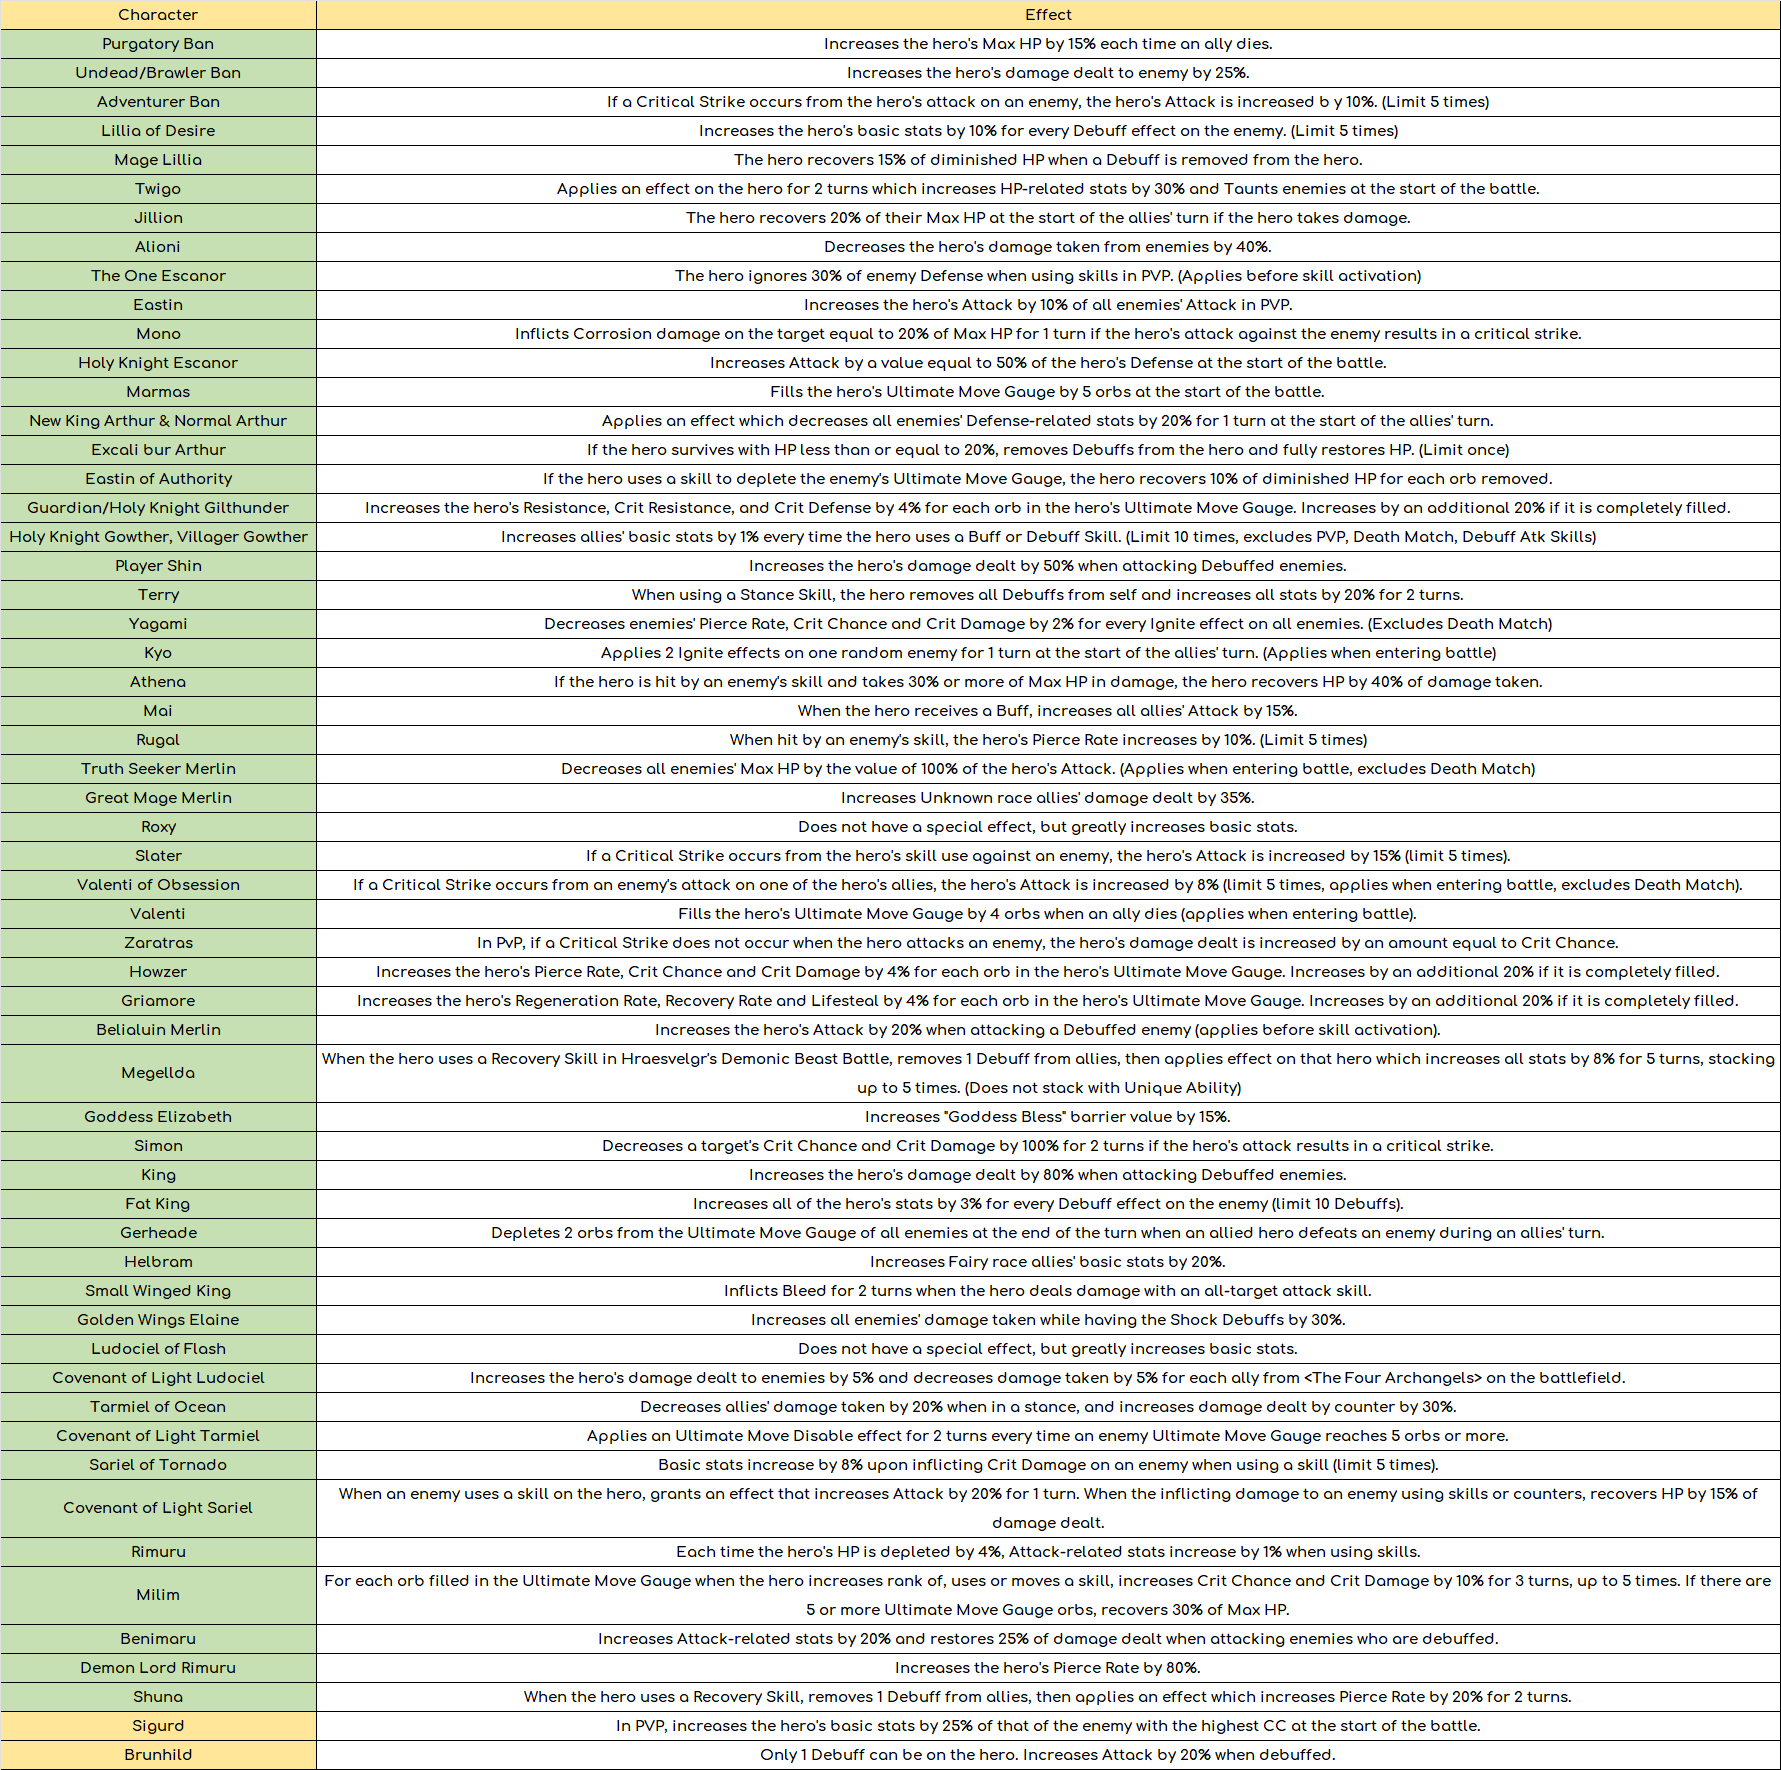
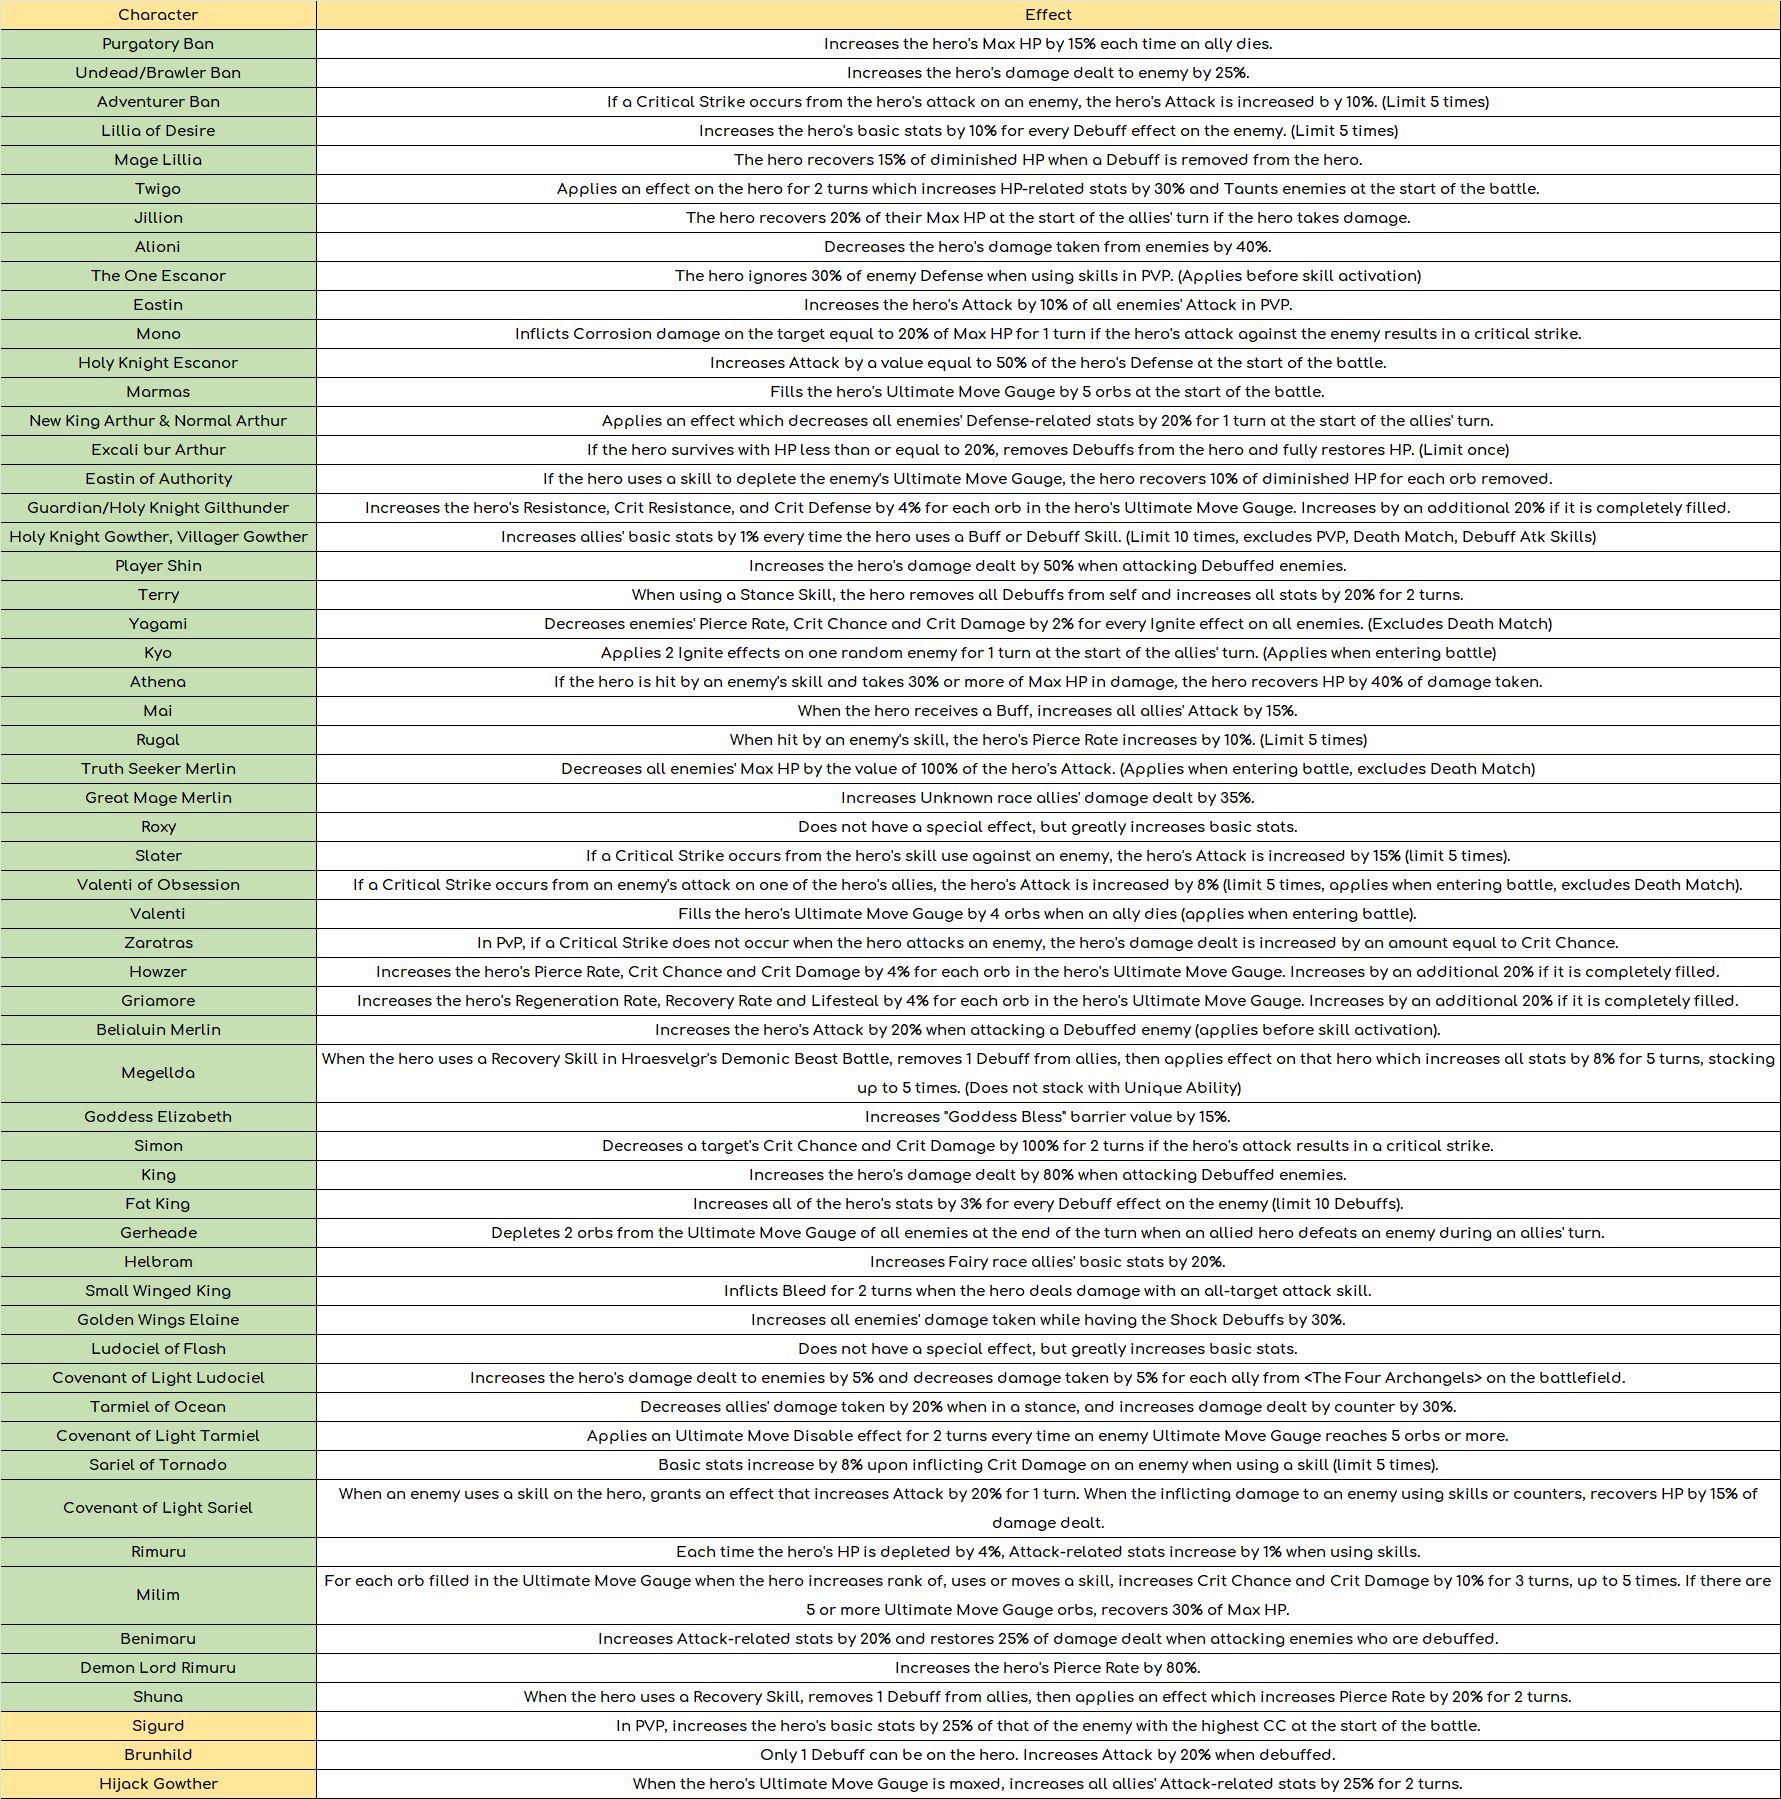
aaa

Changed region(s): [[0.0, 0.0, 1.0, 0.9944]]

diff --git a/patchnotes26may2022.html b/patchnotes26may2022.html
@@ -93,6 +93,9 @@
 				</script>
 				
 				<h2 class="mb-2">26 May 2022 Patch Notes</h2>
+				<div class="container pb-3 img-responsive" style="text-align: center; justify-content: center;">
+					<img src="https://7taizai.netmarble.jp/file/imgs/402403ab.png" style="max-width:100%; max-height:100%;" loading="lazy">
+				</div>
 			</div>
 
 			<div class="greytheme whitetext mb-3" style="padding: 0.5rem 1rem;">
@@ -104,44 +107,133 @@
 				<div class="container pb-3 img-responsive" style="text-align: center; justify-content: center;">
 					<img src="images/patchnotes/26may2022/elizabeth.png" style="max-width:100%; max-height:100%;" loading="lazy">
 				</div>
-				<!--
-				<p>Available in step up gacha</p>
+				
 
 				<hr style="border-color: white">
 
-				<p><b><u>■ Relics</u></b></p>
+				<p><b><u>■ New Chapter - Chapter 23</u></b></p>
 				<div class="container pb-3 img-responsive" style="text-align: center; justify-content: center;">
-					<p>Ludociel of Flash: Does not have a special effect, but greatly increases basic stats.</p>
+					<img src="https://7taizai.netmarble.jp/file/imgs/feefddc3.png" style="max-width:100%; max-height:100%;" loading="lazy">
 				</div>
 
 				<hr style="border-color: white">
 
-				<p><b><u>■ Events</u></b></p>
-				<p>1. Final Boss Ban and Elaine Legend</p>
+				<p><b><u>■ New Attribute - Light</u></b></p>
 				<div class="container pb-3 img-responsive" style="text-align: center; justify-content: center;">
-					<img src="https://7taizai.netmarble.jp/file/imgs/71ce7af1.png" style="max-width:100%; max-height:100%;" loading="lazy">
-				</div>
-				<p>First clear reward:</p>
-				<div class="container pb-3 img-responsive" style="text-align: center; justify-content: center;">
-					<img src="https://7taizai.netmarble.jp/file/imgs/5ee592f9.png" style="max-width:100%; max-height:100%;" loading="lazy">
-				</div>
-				<p>Exchange shop:</p>
-				<div class="container pb-3 img-responsive" style="text-align: center; justify-content: center;">
-					<img src="https://7taizai.netmarble.jp/file/imgs/63aeef18.png" style="max-width:100%; max-height:100%;" loading="lazy">
+					<p>Setting a Light attribute hero to the team decreases allies' damage taken by 10% from characters with attributes that are strong against your allies. The Light attribute hero has decreased damage taken from enemies of any other attribute by 10%. (Light attribute effect does not stack)</p>
 				</div>
 
-				<p>2. Ragnarok Roulette</p>
-				<p>Max of 30 roulette coin obtainable per day, on main stage, free stage, SP dungeon, boss battle, death match, training grotto and knighthood boss battle.<br>Special reward:</p>
+				<hr style="border-color: white">
+
+				<p><b><u>■ New Costumes</u></b></p>
 				<div class="container pb-3 img-responsive" style="text-align: center; justify-content: center;">
-					<img src="https://7taizai.netmarble.jp/file/imgs/86e4783c.png" style="max-width:100%; max-height:100%;" loading="lazy">
+					<img src="https://7taizai.netmarble.jp/file/imgs/3806e810.png" style="max-width:100%; max-height:100%;" loading="lazy">
 				</div>
-				<p>Normal reward:</p>
 				<div class="container pb-3 img-responsive" style="text-align: center; justify-content: center;">
-					<img src="https://7taizai.netmarble.jp/file/imgs/59fb182d.png" style="max-width:100%; max-height:100%;" loading="lazy">
+					<img src="https://7taizai.netmarble.jp/file/imgs/67d38969.png" style="max-width:100%; max-height:100%;" loading="lazy">
 				</div>
 
-				<p>3. Village donation event</p>
-			-->
+				<p><b><u>■ Super Evolution Lv.100 Open</u></b></p>
+				<div class="container pb-3 img-responsive" style="text-align: center; justify-content: center;">
+					<p>You will need 2 new material for evolution into Lv. 95 and 100.</p>
+				</div>
+				<div class="container pb-3 img-responsive" style="text-align: center; justify-content: center;">
+					<img src="https://7taizai.netmarble.jp/file/imgs/3157bb22.png" style="max-width:100%; max-height:100%;" loading="lazy">
+				</div>
+
+				<div class="container pb-3 img-responsive" style="text-align: center; justify-content: center;">
+					<img src="https://7taizai.netmarble.jp/file/imgs/58401431.png" style="max-width:100%; max-height:100%;" loading="lazy">
+					<img src="https://7taizai.netmarble.jp/file/imgs/690bea71.png" style="max-width:100%; max-height:100%;" loading="lazy">
+					<p>After the update, Chapter 1-3's Hell mode will spawn Bellmoth, and chapter 4-6 will spawn the Original Demon</p>
+				</div>
+
+				<hr style="border-color: white">
+
+				<p><b><u>■ Artifact Cards</u></b></p>
+				<div class="container pb-3 img-responsive" style="text-align: center; justify-content: center;">
+					<p>Aura of Light: Increases Goddess race allies' damage dealt in PVP by 2/4/6/8/10%.<br>Card pack obtainable from: event boss challenge, event boss exchange shop, roulette</p>
+				</div>
+
+				<hr style="border-color: white">
+
+				<p><b><u>■ Relic</u></b></p>
+				<div class="container pb-3 img-responsive" style="text-align: center; justify-content: center;">
+					<p>Hijack Gowther: When the hero's Ultimate Move Gauge is maxed, increases all allies' Attack-related stats by 25% for 2 turns.</p>
+				</div>
+
+				<hr style="border-color: white">
+
+				<p><b><u>■ System Changes</u></b></p>
+				<p><b><u>■ Death Match Extreme/Hell drop improvement</u></b></p>
+				<div class="container pb-3 img-responsive" style="text-align: center; justify-content: center;">
+					<img src="https://7taizai.netmarble.jp/file/imgs/05626f92.png" style="max-width:100%; max-height:100%;" loading="lazy">
+					<p>The chest drop will also be increased for Extreme and Hell modes.</p>
+				</div>
+
+				<p><b><u>■ Login reward animation skip</u></b></p>
+				<div class="container pb-3 img-responsive" style="text-align: center; justify-content: center;">
+					<img src="https://7taizai.netmarble.jp/file/imgs/fb0c82db.png" style="max-width:100%; max-height:100%;" loading="lazy">
+				</div>
+
+				<p><b><u>■ Exchange material with king</u></b></p>
+				<div class="container pb-3 img-responsive" style="text-align: center; justify-content: center;">
+					<img src="https://7taizai.netmarble.jp/file/imgs/58c8aa1a.png" style="max-width:100%; max-height:100%;" loading="lazy">
+				</div>
+
+				<p><b><u>■ Event</u></b></p>
+
+				<p><b><u>■ Goddess Thanksgiving Festival</u></b></p>
+				<div class="container pb-3 img-responsive" style="text-align: center; justify-content: center;">
+					<img src="https://7taizai.netmarble.jp/file/imgs/27a6e9c8.png" style="max-width:100%; max-height:100%;" loading="lazy">
+				</div>
+				<div class="container pb-3 img-responsive" style="text-align: center; justify-content: center;">
+					<img src="https://7taizai.netmarble.jp/file/imgs/ce063958.png" style="max-width:100%; max-height:100%;" loading="lazy">
+				</div>
+
+				<p><b><u>■ Special mission</u></b></p>
+				<div class="container pb-3 img-responsive" style="text-align: center; justify-content: center;">
+					<img src="images/patchnotes/26may2022/specialmission.png" style="max-width:100%; max-height:100%;" loading="lazy">
+				</div>
+
+				<p><b><u>■ Roulette Event</u></b></p>
+				<div class="container pb-3 img-responsive" style="text-align: center; justify-content: center;">
+					<img src="https://7taizai.netmarble.jp/file/imgs/f6ee330c.png" style="max-width:100%; max-height:100%;" loading="lazy">
+				</div>
+
+				<p><b><u>■ Boss Parade</u></b></p>
+				<div class="container pb-3 img-responsive" style="text-align: center; justify-content: center;">
+					<img src="https://7taizai.netmarble.jp/file/imgs/a3890454.png" style="max-width:100%; max-height:100%;" loading="lazy">
+				</div>
+
+				<p><b><u>■ Exchange Shop</u></b></p>
+				<div class="container pb-3 img-responsive" style="text-align: center; justify-content: center;">
+					<img src="https://7taizai.netmarble.jp/file/imgs/39295819.png" style="max-width:100%; max-height:100%;" loading="lazy">
+				</div>
+
+				<p><b><u>■ Goddess Blessing</u></b></p>
+				<div class="container pb-3 img-responsive" style="text-align: center; justify-content: center;">
+					<img src="https://7taizai.netmarble.jp/file/imgs/a28899f0.png" style="max-width:100%; max-height:100%;" loading="lazy">
+				</div>
+
+				<p><b><u>■ Lvl 90 Evolution Support Event</u></b></p>
+				<div class="container pb-3 img-responsive" style="text-align: center; justify-content: center;">
+					<img src="https://7taizai.netmarble.jp/file/imgs/66727ab4.png" style="max-width:100%; max-height:100%;" loading="lazy">
+					<img src="https://7taizai.netmarble.jp/file/imgs/61fd839f.png" style="max-width:100%; max-height:100%;" loading="lazy">
+				</div>
+
+				<p>Obtainable as reward in Special Mission part 1 and part 2 final reward.</p>
+
+				<p><b><u>■ Thanksgiving Fes Lucky Bag</u></b></p>
+				<div class="container pb-3 img-responsive" style="text-align: center; justify-content: center;">
+					<img src="https://7taizai.netmarble.jp/file/imgs/279831c2.png" style="max-width:100%; max-height:100%;" loading="lazy">
+				</div>
+				<p>Lucky ticket obtainable in event boss parade challenge reward, mail, event boss exchange and through purchase.</p>
+
+				<hr style="border-color: white">
+				<p><b><u>■ Goddess Blessing</u></b></p>
+				<div class="container pb-3 img-responsive" style="text-align: center; justify-content: center;">
+					<img src="https://7taizai.netmarble.jp/file/imgs/a28899f0.png" style="max-width:100%; max-height:100%;" loading="lazy">
+				</div>
 			</div>
 
 		</div>

diff --git a/patchnotes.html b/patchnotes.html
@@ -93,6 +93,9 @@
 				</script>
 				
 				<h2 class="mb-2">26 May 2022 Patch Notes</h2>
+				<div class="container pb-3 img-responsive" style="text-align: center; justify-content: center;">
+					<img src="https://7taizai.netmarble.jp/file/imgs/402403ab.png" style="max-width:100%; max-height:100%;" loading="lazy">
+				</div>
 			</div>
 
 			<div class="greytheme whitetext mb-3" style="padding: 0.5rem 1rem;">
@@ -104,8 +107,7 @@
 				<div class="container pb-3 img-responsive" style="text-align: center; justify-content: center;">
 					<img src="images/patchnotes/26may2022/elizabeth.png" style="max-width:100%; max-height:100%;" loading="lazy">
 				</div>
-				<!--
-				<p>Available in step up gacha</p>
+				
 
 				<hr style="border-color: white">
 
@@ -141,7 +143,7 @@
 				</div>
 
 				<p>3. Village donation event</p>
-			-->
+			
 			</div>
 
 		</div>

diff --git a/gamenews.html b/gamenews.html
@@ -87,10 +87,10 @@
 			</div>
 		</div>
 		<div class="col-lg-5 darktheme" style="margin:0 auto;">
-			<h3 class="whitetext pt-2" style="text-align: center;">19 May 2022 Patch Notes</h3>
+			<h3 class="whitetext pt-2" style="text-align: center;">26 May 2022 Patch Notes</h3>
 			<div class="container pt-3 pb-3 img-responsive" style="justify-content: center;">
-				<a href="patchnotes19may22">
-					<img src="images/banners/19may2022.png" style="max-width:100%; max-height:100%;" loading="lazy">
+				<a href="patchnotes26may22">
+					<img src="images/banners/26may2022.png" style="max-width:100%; max-height:100%;" loading="lazy">
 				</a>
 			</div>
 		</div>
